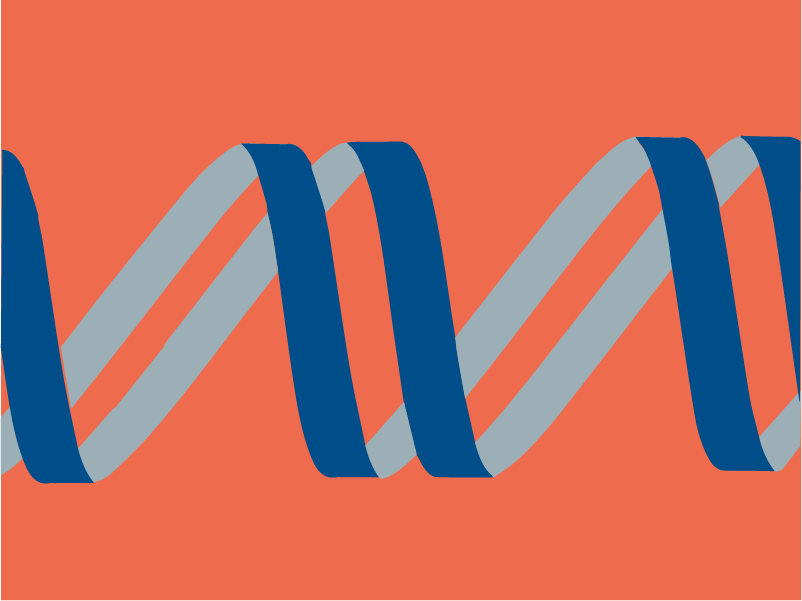
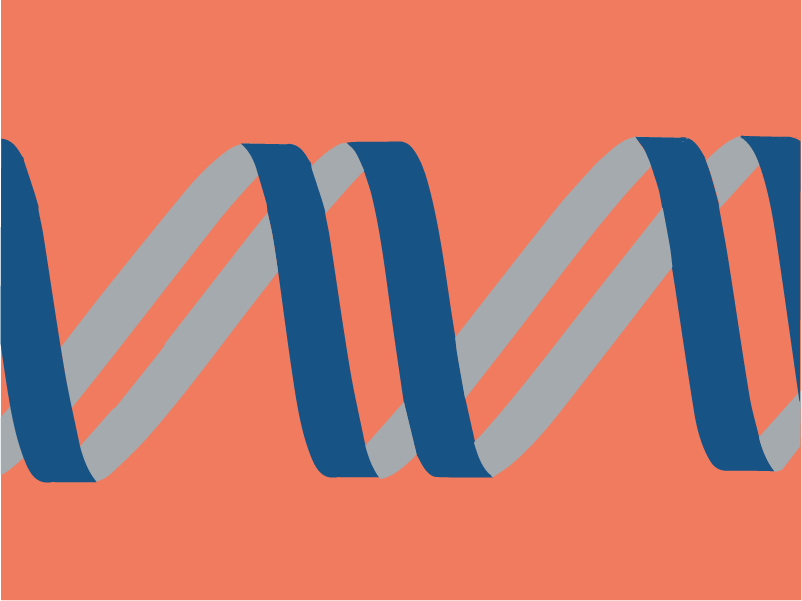
replaced background image with a 90% transparent version

diff --git a/assets/css/style.css b/assets/css/style.css
@@ -24,7 +24,7 @@ html, body {
 }
 
 body{
-  background-image: url("../media/LLbackgroundnoborder2.png");
+  background-image: url("../media/LLbackground-1.png");
   background-size: cover;
   font-family: Open Sans;
 }
